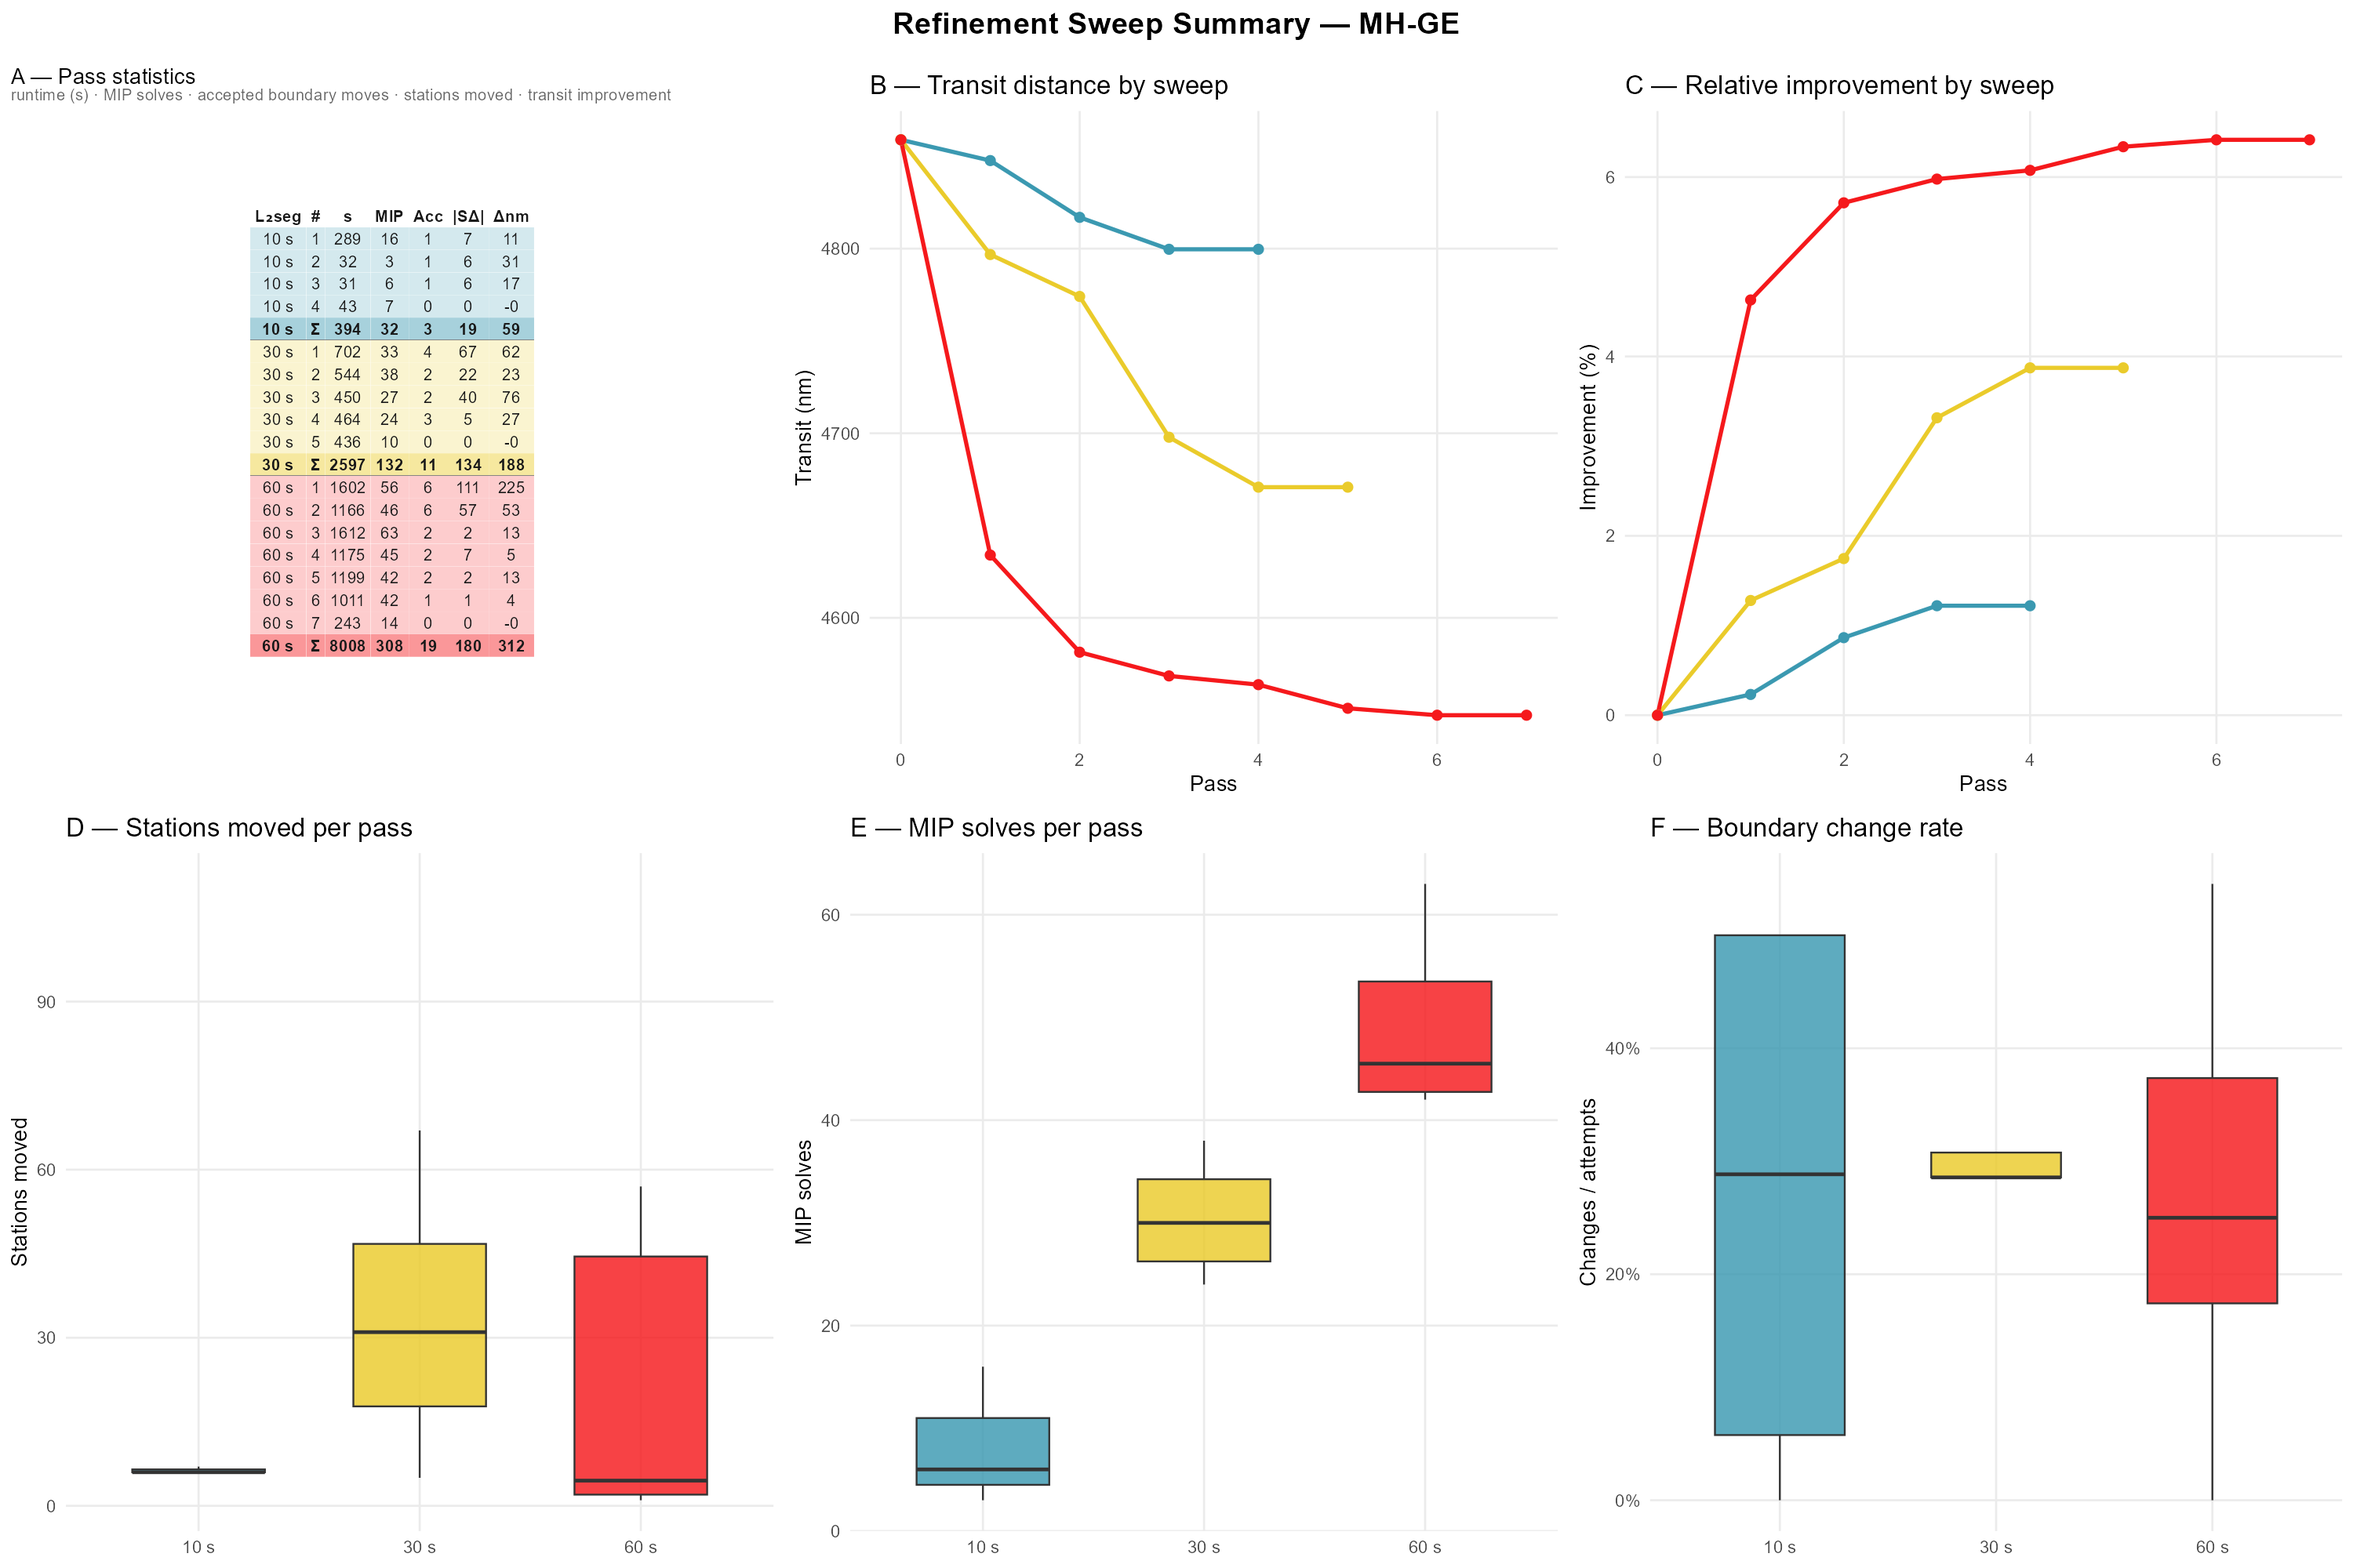
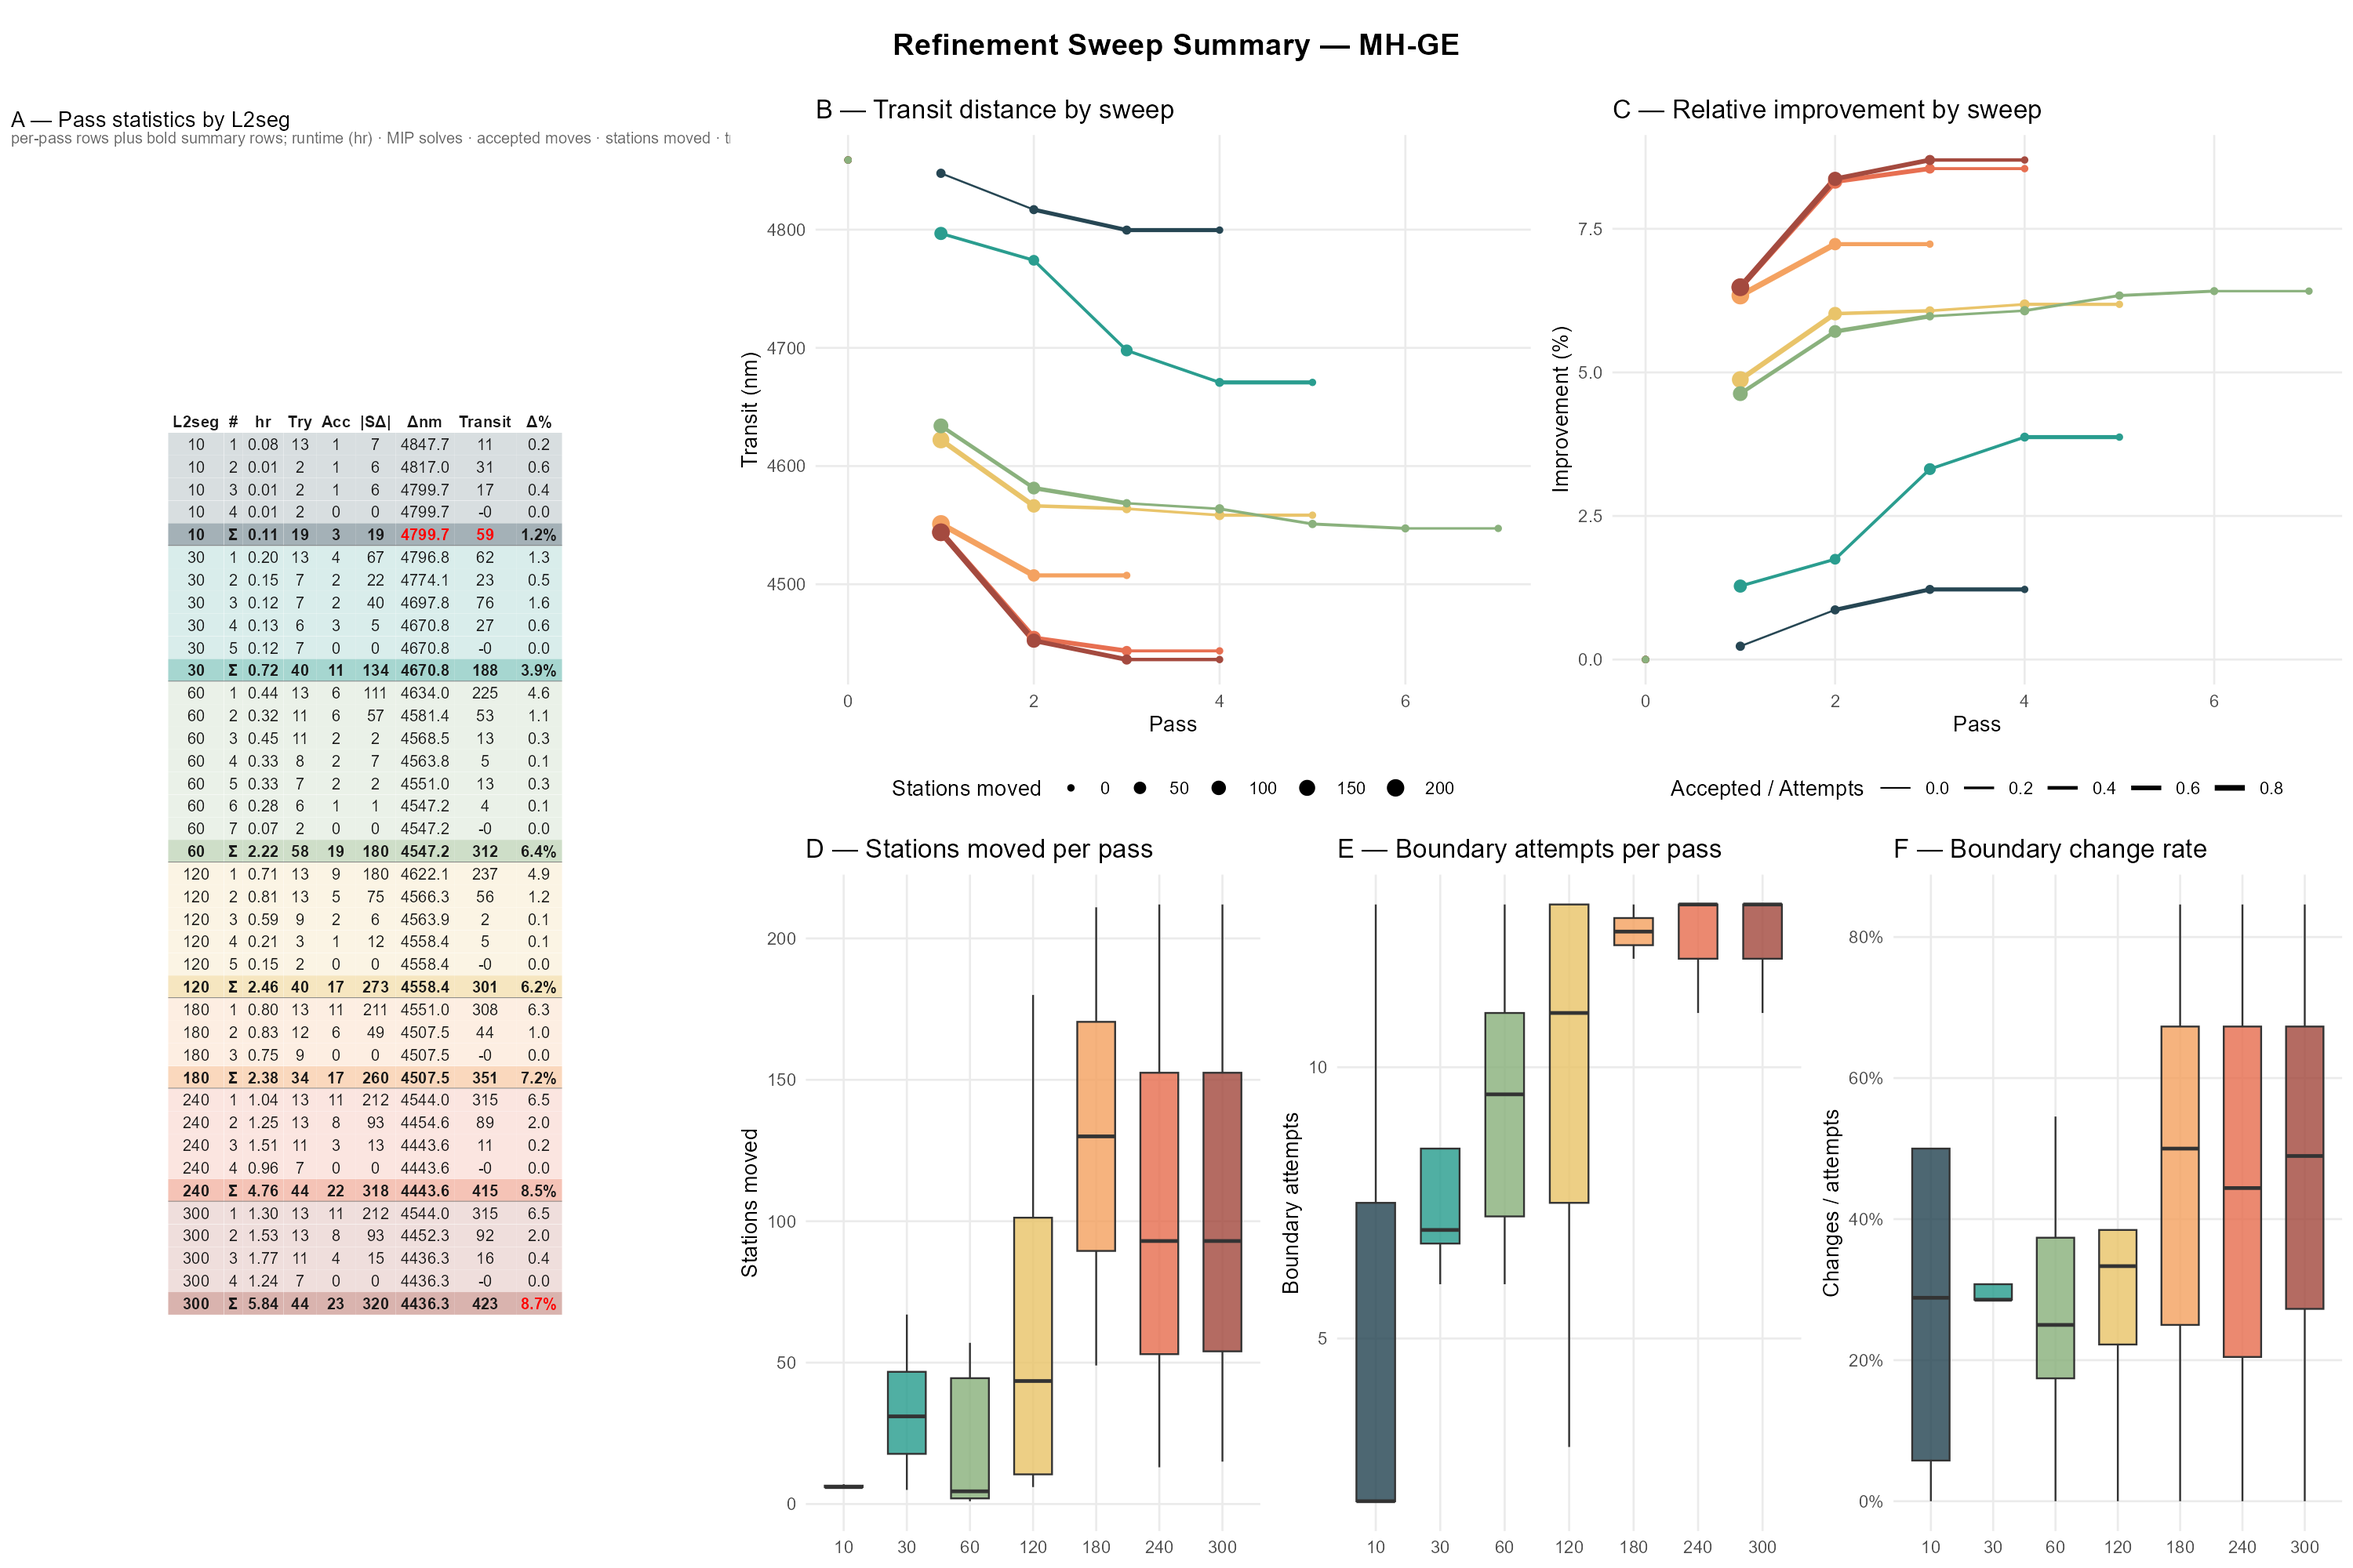
refactor: enhance `plot_refinement_sweep.R` with LaTeX export support and improved summary metrics
- Adds LaTeX table generation with `write_latex_table` for refinement sweep summaries.
- Introduces median and max station moves to summary metrics and table outputs.
- Refines line plot themes: ensures solid linewidths and adjusts legend positioning.
- Consolidates and simplifies table creation and summary logic for improved readability and maintainability.

diff --git a/sol/refinement_sweep.tex b/sol/refinement_sweep.tex
@@ -1,0 +1,40 @@
+\begin{table}[b]
+\centering
+\caption{MH performance by initialization strategy.}
+\label{tab:results}
+\begin{tabular}{lrrr|rr|rrr|rrr}
+\toprule
+Method & L2seg & Passes & Runtime (hr) & Attempts & Accepted & S moved total & S moved median & S moved max & Transit nm & Delta nm & Delta pct
+\\
+\midrule
+MH-OPT & 10 & 2 & 0.09 & 16 &  2 &   7 & 4 & 7 & 4289.6 & 46 & 1.1 \\
+MH-OPT & 30 & 2 & 0.27 & 19 &  4 &  14 & 7 & 14 & 4283.8 & 51 & 1.2 \\
+MH-OPT & 60 & 4 & 0.67 & 23 &  6 &  23 & 3 & 17 & 4271.6 & 64 & 1.5 \\
+MH-OPT & 120 & 4 & 2.07 & 36 & 14 &  82 & 14 & 55 & 4198.0 & 137 & 3.2 \\
+MH-OPT & 180 & 3 & 2.58 & 31 & 11 &  66 & 11 & 55 & 4194.6 & 141 & 3.2 \\
+MH-OPT & 240 & 3 & 2.55 & 27 & 11 &  79 & 7 & 72 & 4162.9 & 172 & 4.0 \\
+MH-OPT & 300 & 3 & 3.10 & 27 & 11 &  79 & 7 & 72 & 4162.9 & 172 & 4.0 \\
+MH-NN & 10 & 1 & 0.08 & 13 &  0 &   0 & 0 & 0 & 5500.3 & 0 & 0.0 \\
+MH-NN & 30 & 3 & 0.41 & 21 &  3 &  13 & 3 & 10 & 5434.2 & 66 & 1.2 \\
+MH-NN & 60 & 8 & 2.08 & 66 & 30 & 381 & 40 & 133 & 4830.6 & 670 & 12.2 \\
+MH-NN & 120 & 6 & 2.77 & 48 & 20 & 275 & 4 & 186 & 4855.7 & 645 & 11.7 \\
+MH-NN & 180 & 9 & 5.42 & 74 & 30 & 287 & 10 & 198 & 4780.2 & 720 & 13.1 \\
+MH-NN & 240 & 7 & 5.05 & 55 & 23 & 304 & 6 & 216 & 4791.1 & 709 & 12.9 \\
+MH-NN & 300 & 8 & 6.33 & 59 & 25 & 270 & 8 & 203 & 4790.5 & 710 & 12.9 \\
+MH-GE & 10 & 4 & 0.11 & 19 &  3 &  19 & 6 & 7 & 4799.7 & 59 & 1.2 \\
+MH-GE & 30 & 5 & 0.72 & 40 & 11 & 134 & 22 & 67 & 4670.8 & 188 & 3.9 \\
+MH-GE & 60 & 7 & 2.22 & 58 & 19 & 180 & 2 & 111 & 4547.2 & 312 & 6.4 \\
+MH-GE & 120 & 5 & 2.46 & 40 & 17 & 273 & 12 & 180 & 4558.4 & 301 & 6.2 \\
+MH-GE & 180 & 3 & 2.38 & 34 & 17 & 260 & 49 & 211 & 4507.5 & 351 & 7.2 \\
+MH-GE & 240 & 4 & 4.76 & 44 & 22 & 318 & 53 & 212 & 4443.6 & 415 & 8.5 \\
+MH-GE & 300 & 4 & 5.84 & 44 & 23 & 320 & 54 & 212 & 4436.3 & 423 & 8.7 \\
+MH-CI & 10 & 9 & 0.33 & 53 & 12 & 166 & 1 & 43 & 4983.1 & 190 & 3.7 \\
+MH-CI & 30 & 4 & 0.52 & 30 &  9 & 113 & 16 & 80 & 4955.8 & 217 & 4.2 \\
+MH-CI & 60 & 6 & 1.82 & 52 & 19 & 119 & 18 & 46 & 4815.1 & 358 & 6.9 \\
+MH-CI & 120 & 7 & 3.47 & 53 & 17 &  86 & 5 & 42 & 4874.8 & 298 & 5.8 \\
+MH-CI & 180 & 5 & 4.46 & 54 & 27 & 367 & 63 & 162 & 4690.3 & 483 & 9.3 \\
+MH-CI & 240 & 4 & 4.21 & 40 & 20 & 199 & 30 & 138 & 4707.2 & 466 & 9.0 \\
+MH-CI & 300 & 6 & 20.87 & 49 & 22 & 265 & 36 & 94 & 4714.1 & 459 & 8.9 \\
+\bottomrule
+\end{tabular}
+\end{table}
